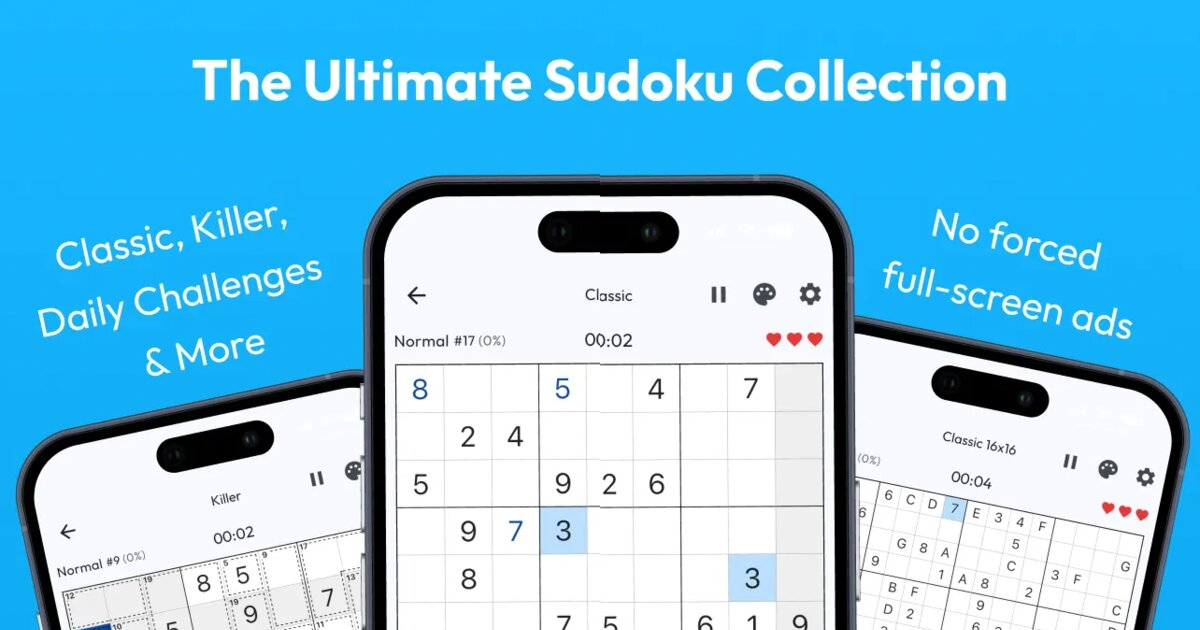
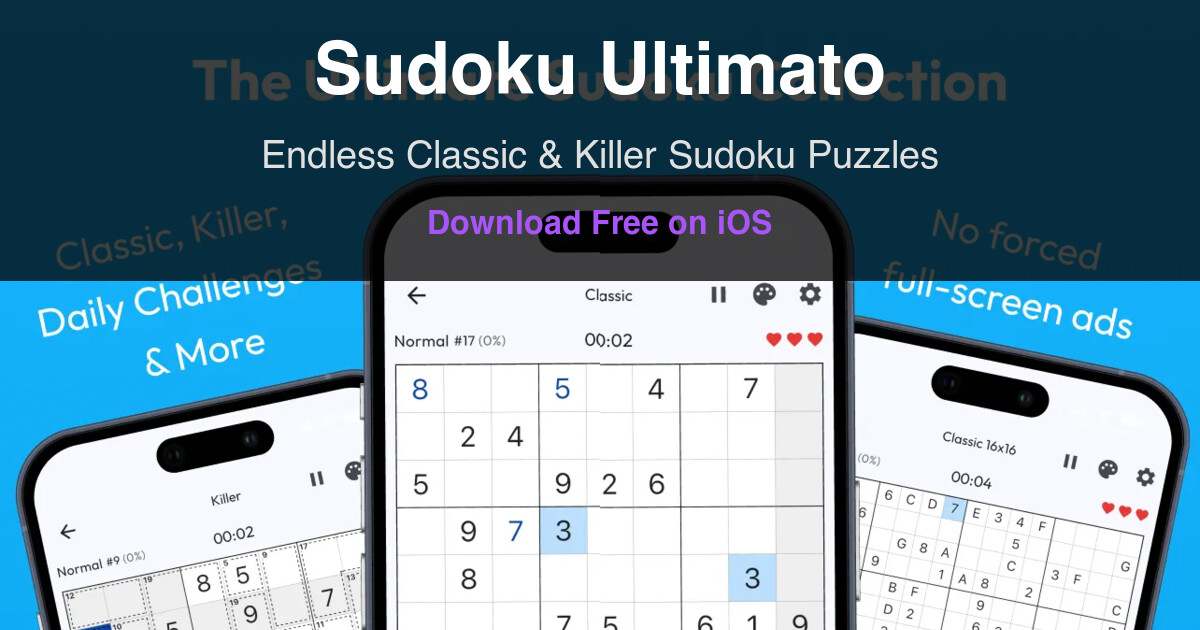
fix og images

diff --git a/app/locales/th.ts b/app/locales/th.ts
@@ -229,9 +229,9 @@ const th: Translations = {
     ],
   },
   metadata: {
-    title: "Sudoku Ultimato - ปริศนาซูโดกุไม่มีที่สิ้นสุดสำหรับ iOS",
+    title: "Sudoku Ultimato - ซูโดกุไม่จำกัดคลาสสิกและคิลเลอร์สำหรับ iOS",
     description:
-      "เล่นปริศนาซูโดกุไม่มีที่สิ้นสุดบน iOS ซูโดกุคลาสสิก คิลเลอร์ซูโดกุ และตารางขนาดยักษ์ 16x16 ความท้าทายรายวัน ไม่มีโฆษณารบกวน โหมดมืด ดาวน์โหลดฟรีจาก App Store",
+      "เล่นซูโดกุไม่จำกัด คลาสสิก คิลเลอร์ และ 16x16 ความท้าทายรายวัน ดีไซน์เรียบง่าย โหมดมืด ฟรี iOS",
   },
 };
 

diff --git a/app/locales/nl.ts b/app/locales/nl.ts
@@ -233,9 +233,9 @@ const nl: Translations = {
     ],
   },
   metadata: {
-    title: "Sudoku Ultimato - Eindeloze Sudoku Puzzels voor iOS",
+    title: "Sudoku Ultimato - Eindeloze Klassieke & Killer Sudoku iOS",
     description:
-      "Speel eindeloze Sudoku puzzels op iOS. Klassieke Sudoku, Killer Sudoku en grote 16x16 roosters. Dagelijkse uitdagingen, geen opdringerige advertenties, donkere modus. Gratis downloaden op App Store.",
+      "Speel eindeloze Sudoku. Klassiek, Killer & 16x16 roosters. Dagelijkse uitdagingen, strak design, donkere modus. Gratis.",
   },
 };
 

diff --git a/app/locales/en.ts b/app/locales/en.ts
@@ -234,9 +234,9 @@ const en: Translations = {
     ],
   },
   metadata: {
-    title: "Sudoku Ultimato - Endless Sudoku Puzzles for iOS",
+    title: "Sudoku Ultimato - Endless Classic & Killer Sudoku for iOS",
     description:
-      "Play endless Sudoku puzzles on iOS. Classic Sudoku, Killer Sudoku, and giant 16x16 grids. Daily challenges, no intrusive ads, dark mode. Download free on App Store.",
+      "Play endless Sudoku puzzles. Classic, Killer & 16x16 grids. Daily challenges, clean interface, dark mode. Free iOS app.",
   },
 };
 
